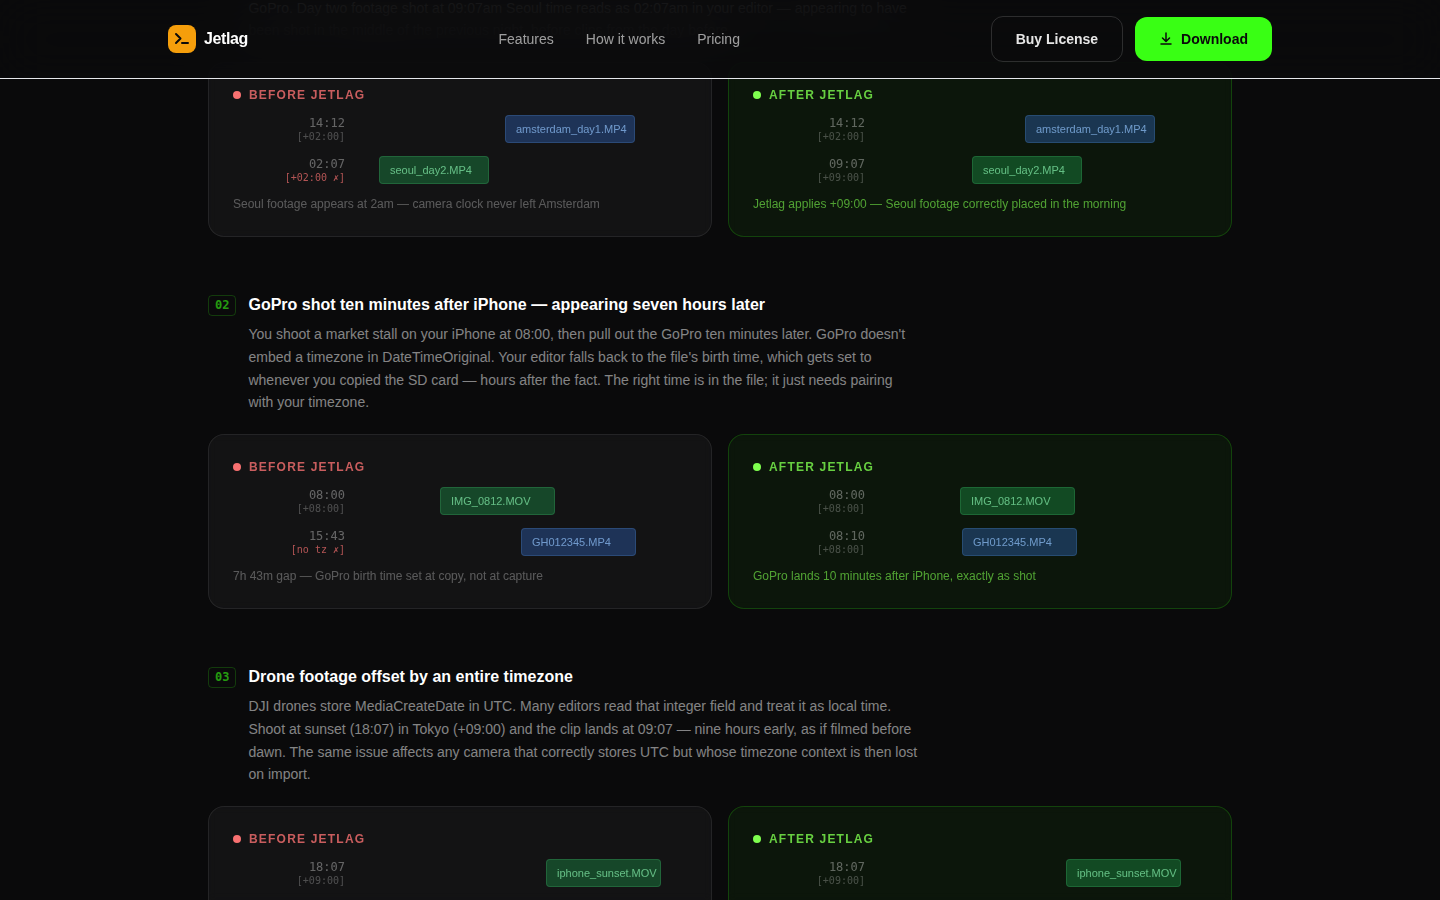
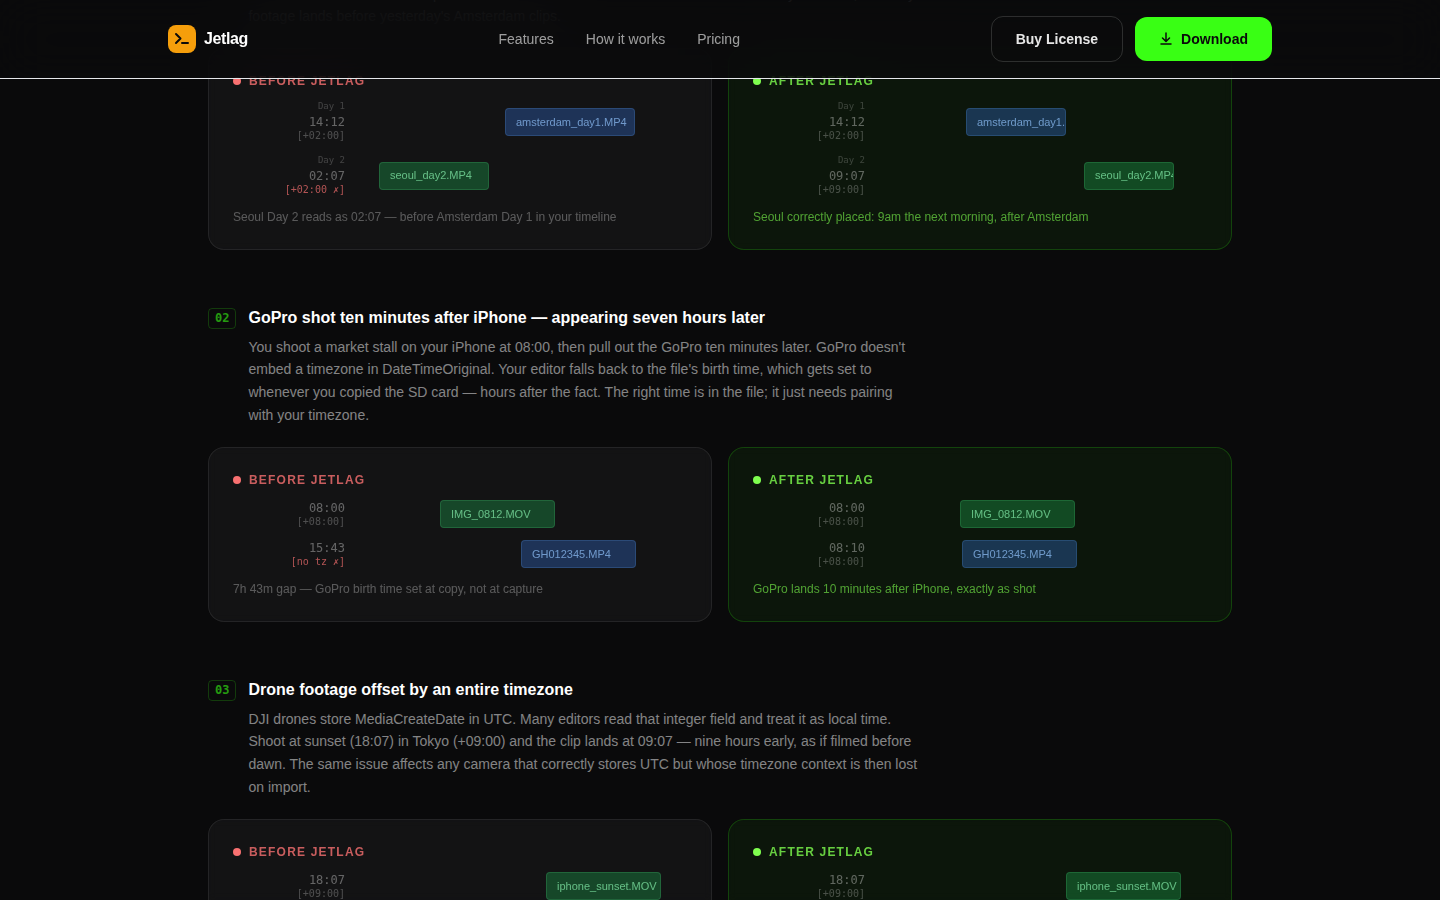
fix scenario 1: Seoul appears before Amsterdam before correction
The "after" state was showing Seoul at 09:07 on the same 24h scale
as Amsterdam at 14:12, which placed it visually before Amsterdam —
the opposite of what the scenario should illustrate.

Fixed by switching the after card to a two-day scale (150px/day):
Amsterdam Day 1 14:12 → offset 89, Seoul Day 2 09:07 → offset 207.
This clearly places Seoul to the right of Amsterdam, showing it
correctly lands the next morning after the overnight flight.

Also added Day 1/Day 2 labels to clips, tightened the body copy to
lead with the travel story, and updated captions.

Tested by taking a screenshot and reviewing the rendered output.

https://claude.ai/code/session_014fBd75GSgp6v64iWGXU35b

diff --git a/web/src/sections/problem.js b/web/src/sections/problem.js
@@ -11,6 +11,7 @@ export function renderProblem() {
     return /* html */`
       <div class="flex items-center gap-3">
         <div class="w-28 text-right font-mono leading-tight flex-shrink-0">
+          ${clip.day ? `<div class="text-[9px] text-white/20 mb-0.5">${clip.day}</div>` : ''}
           <div class="text-xs text-white/35">${clip.time}</div>
           <div class="text-[10px] ${tzClass}">${clip.tz}</div>
         </div>
@@ -45,21 +46,22 @@ export function renderProblem() {
   const scenarios = [
     {
       num: '01',
-      title: 'Crossed a timezone, forgot to update the camera',
-      body: `Flying from Amsterdam (+02:00) to Seoul (+09:00) for the next leg of a food trip, you forget to update the GoPro. Day two footage shot at 09:07am Seoul time reads as 02:07am in your editor — appearing to have been shot in the middle of the previous night, before clips from the day before.`,
+      title: 'Filmed in Amsterdam, flew to Seoul, shot the next morning',
+      body: `You film in Amsterdam at 2pm (+02:00), fly overnight to Seoul (+09:00), and shoot the next morning at 9am — but the GoPro was never updated. Seoul's 9am stores as 02:07 Amsterdam time. In your editor, next-day footage lands before yesterday's Amsterdam clips.`,
       before: {
         clips: [
-          { time: '14:12', tz: '[+02:00]',    correct: true,  file: 'amsterdam_day1.MP4', color: 'blue',  width: 130, offset: 148 },
-          { time: '02:07', tz: '[+02:00  ✗]', correct: false, file: 'seoul_day2.MP4',     color: 'green', width: 110, offset: 22  },
+          { day: 'Day 1', time: '14:12', tz: '[+02:00]',    correct: true,  file: 'amsterdam_day1.MP4', color: 'blue',  width: 130, offset: 148 },
+          { day: 'Day 2', time: '02:07', tz: '[+02:00  ✗]', correct: false, file: 'seoul_day2.MP4',     color: 'green', width: 110, offset: 22  },
         ],
-        caption: 'Seoul footage appears at 2am — camera clock never left Amsterdam',
+        caption: 'Seoul Day 2 reads as 02:07 — before Amsterdam Day 1 in your timeline',
       },
       after: {
+        // Two-day scale: 150 px per day. Day 1 14:12 → 89. Day 2 09:07 → 150+57=207.
         clips: [
-          { time: '14:12', tz: '[+02:00]', correct: true, file: 'amsterdam_day1.MP4', color: 'blue',  width: 130, offset: 148 },
-          { time: '09:07', tz: '[+09:00]', correct: true, file: 'seoul_day2.MP4',     color: 'green', width: 110, offset: 95  },
+          { day: 'Day 1', time: '14:12', tz: '[+02:00]', correct: true, file: 'amsterdam_day1.MP4', color: 'blue',  width: 100, offset: 89  },
+          { day: 'Day 2', time: '09:07', tz: '[+09:00]', correct: true, file: 'seoul_day2.MP4',     color: 'green', width: 90,  offset: 207 },
         ],
-        caption: 'Jetlag applies +09:00 — Seoul footage correctly placed in the morning',
+        caption: 'Seoul correctly placed: 9am the next morning, after Amsterdam',
       },
     },
     {
